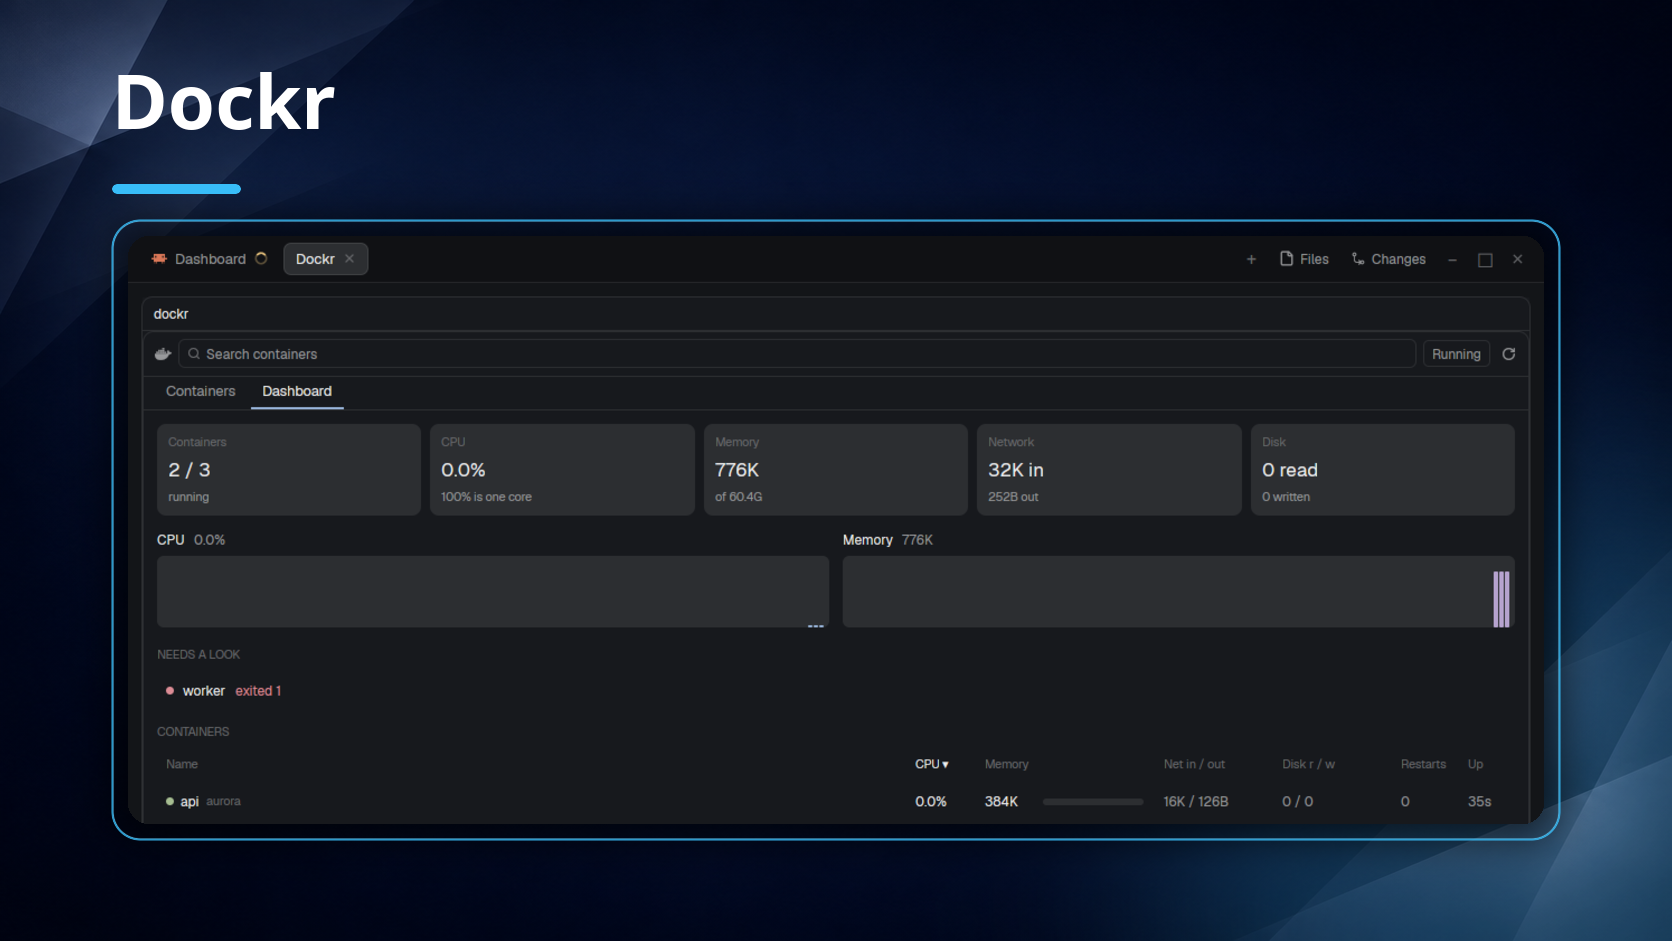
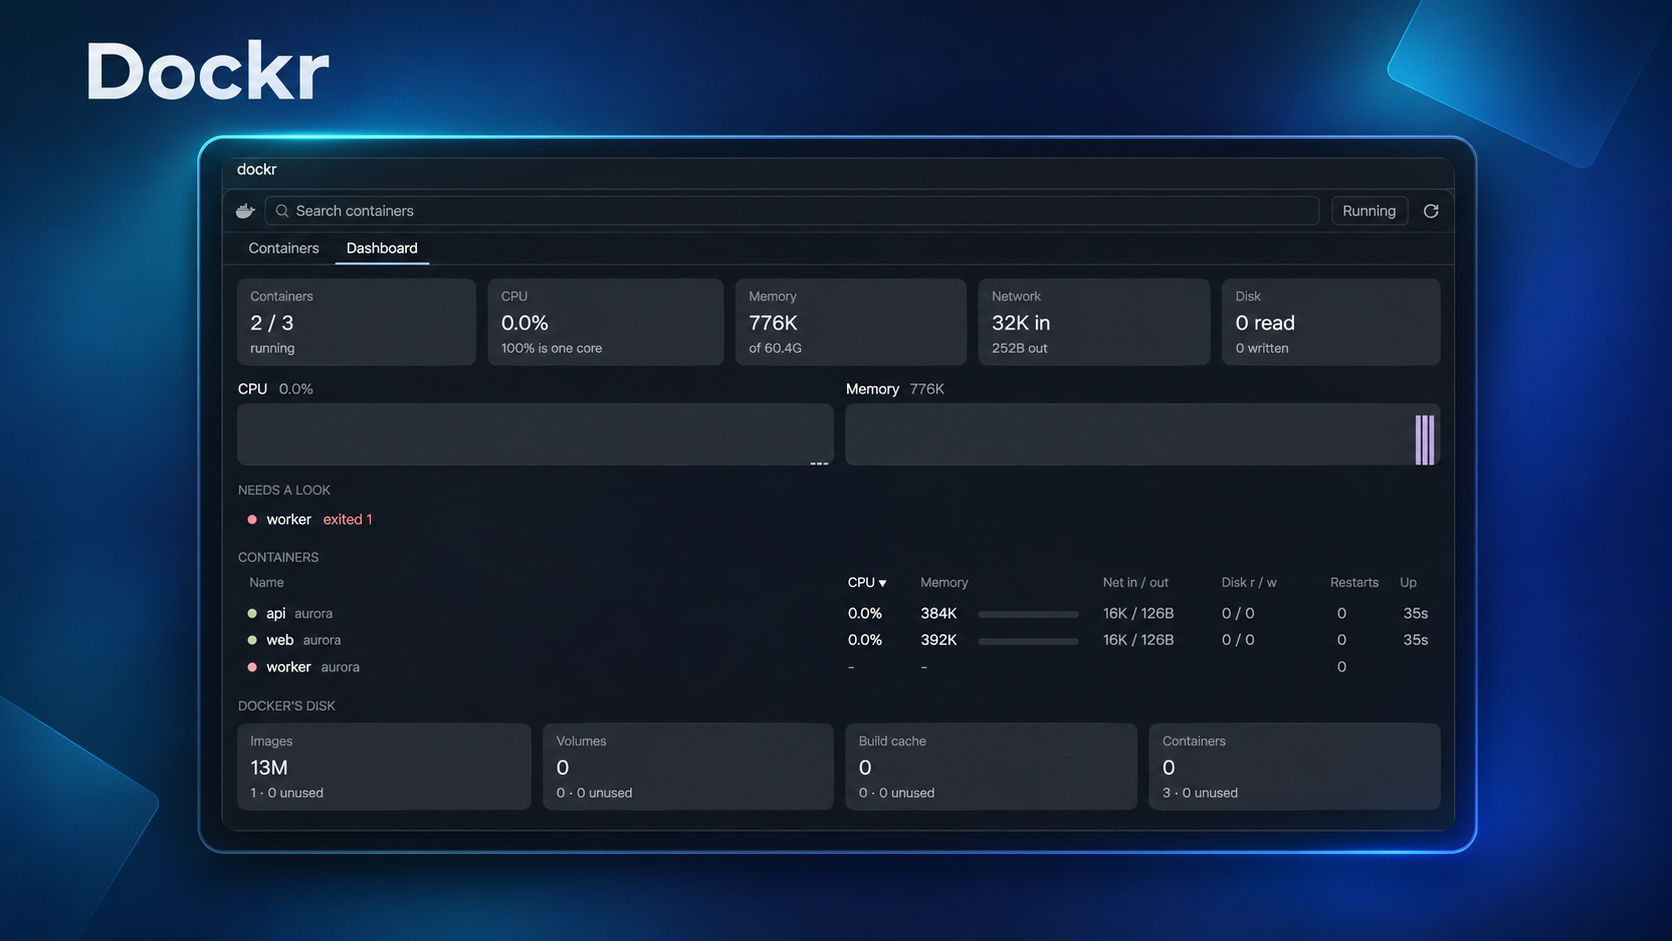
Restore previous thumbnails and document preview style

diff --git a/docs/agents/shares.md b/docs/agents/shares.md
@@ -50,3 +50,14 @@ Mods are edited in `~/.config/herdr-app/mods/`, where Herdr hot-reloads them, th
 ## preview.png
 
 Take it with `herdr-app shot <share>/preview.png` in a private Herdr app, showing the mod in use with made-up repos, branches, tickets and names. The picture is public, so every word in it must be one you would publish.
+
+For a styled preview, treat Dockr's preview as the composition reference:
+
+- Keep the real mod interface dominant, large and readable. Do not invent, redraw or substantially crop its UI.
+- Put the display title above the interface and align its left edge with the interface frame. Use the public product name, not the folder slug; for example, `Agents+` and `Tabs+`.
+- Use one clean sans-serif typeface and consistent title sizing across the set.
+- Give each mod its own restrained accent palette while keeping the overall dark developer-tool aesthetic.
+- Add depth with soft directional light, an illuminated frame, shadow and sparse corner geometry. Avoid flat template backgrounds, decorative ribbons, stages and busy glass layers.
+- Preserve a 16:9 canvas and comparable outer margins, but let the interface's natural proportions determine its exact height.
+- Generate or capture each interface first, then add title, framing and layout deterministically so image generation cannot drift typography or alignment.
+- Review the previews together before publishing. Check title spelling, alignment, interface fidelity, public-safe data and visual weight at gallery size.
